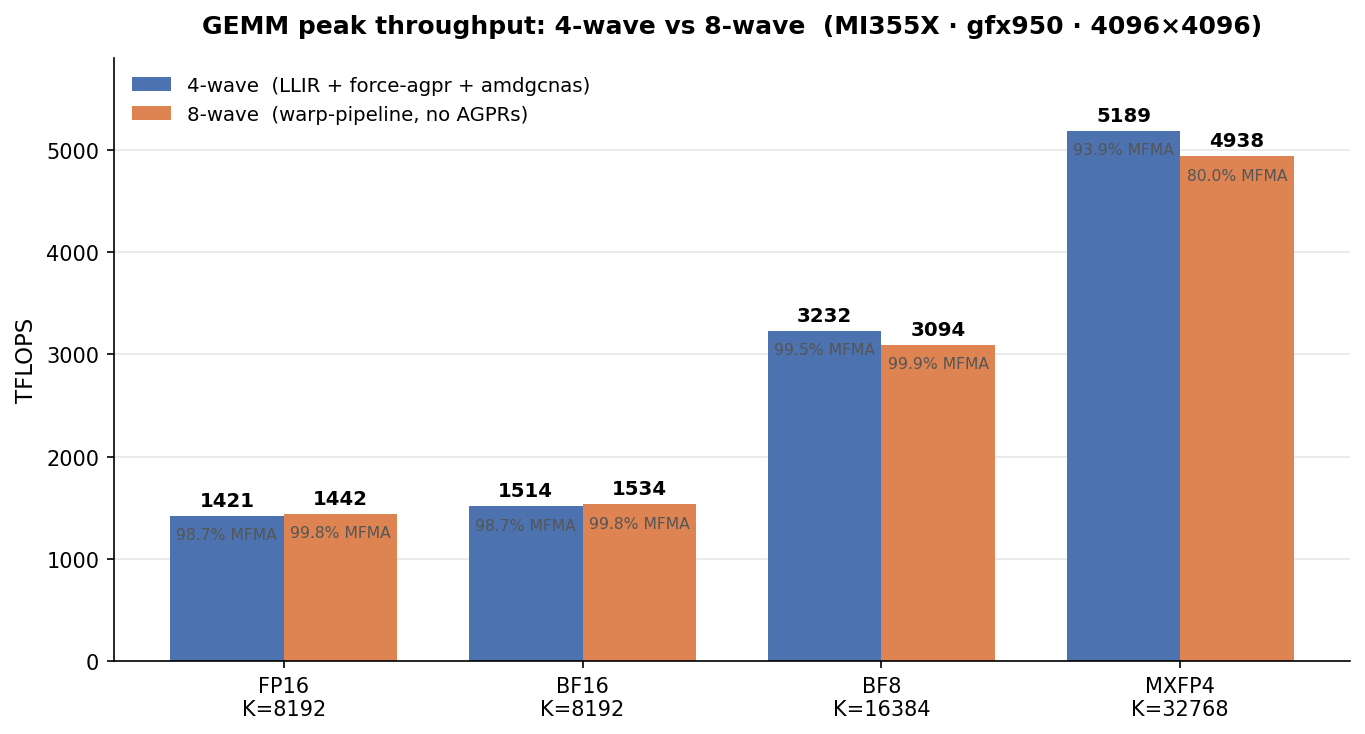
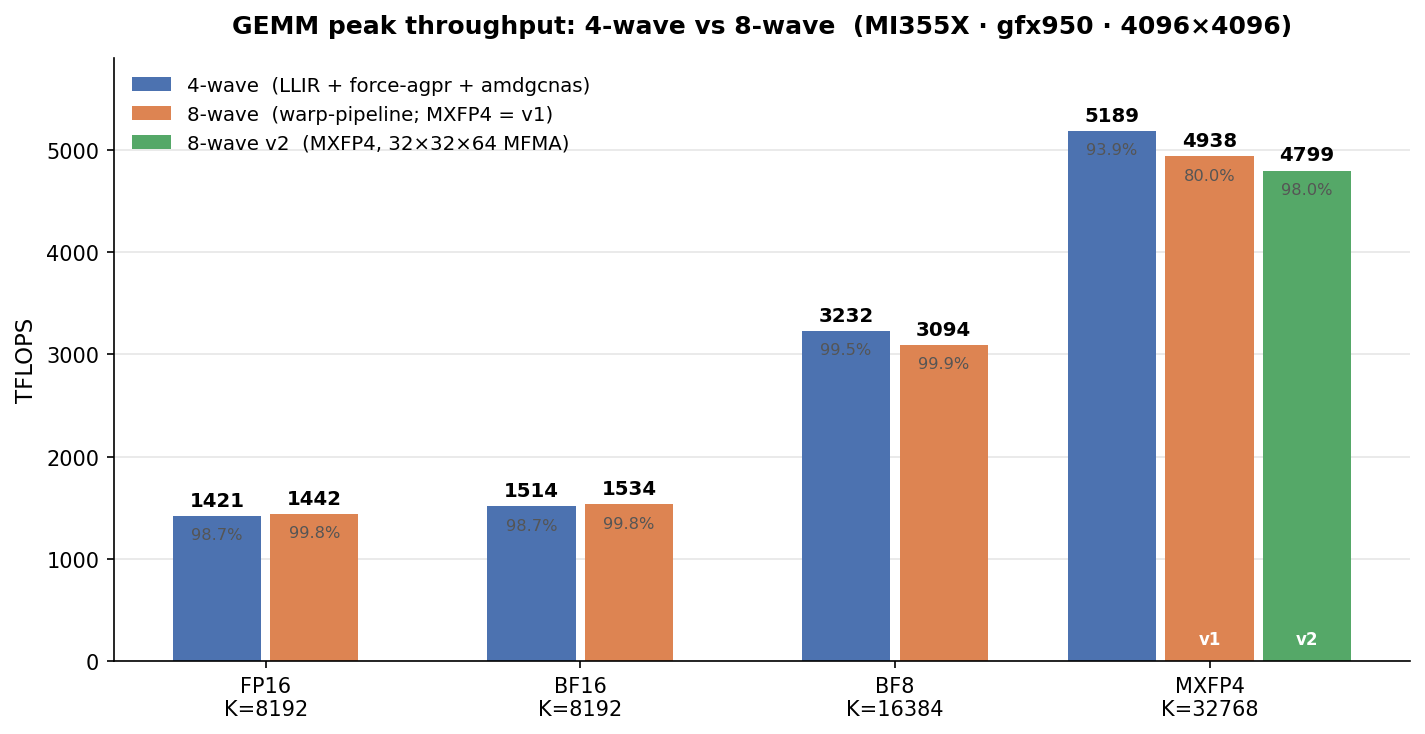
gemm/README: add MXFP4 8-wave v2 to the Performance Summary chart
MXFP4 now shows three bars — 4-wave, 8-wave v1, and 8-wave v2 (32x32x64 MFMA,
green) — so the occupancy-vs-throughput tradeoff (v1 4938/80% vs v2 4799/98%)
is visible. The other precisions keep two bars (single 8-wave kernel). MFMA-eff
labels shortened to just the percentage to declutter the tighter groups.

diff --git a/kernels/gemm/README.md b/kernels/gemm/README.md
@@ -83,7 +83,7 @@ scheduler + force-agpr + amdgcnas (see [`intra_wave/README.md §2.1`](intra_wave
 
 ![GEMM peak throughput: 4-wave vs 8-wave, per precision](images/perf_summary.png)
 
-Bars are peak TFLOPS at each precision's headline shape (FP16/BF16 K=8192, BF8 K=16384, MXFP4 K=32768); the grey label under each value is the per-SIMD loop MFMA efficiency. The 4-wave bars are `intra_wave` (a16w16 v9, a8w8, a4w4 v1); the 8-wave bars are `inter_wave` (a16w16, a8w8, a4w4 v1). MXFP4 8-wave shows **v1** (combined B-scale, 4938 TFLOPS / 80.0% MFMA); the alternate **v2** (32×32×64 MFMA) trades throughput for occupancy at **4799 / 98.0%**.
+Bars are peak TFLOPS at each precision's headline shape (FP16/BF16 K=8192, BF8 K=16384, MXFP4 K=32768); the grey label under each value is the per-SIMD loop MFMA efficiency. The 4-wave bars are `intra_wave` (a16w16 v9, a8w8, a4w4 v1); the 8-wave bars are `inter_wave` (a16w16, a8w8, a4w4). MXFP4 carries both 8-wave variants: **v1** (combined B-scale, the TFLOPS leader at 4938 / 80.0% MFMA) and **v2** (32×32×64 MFMA, green), which trades throughput for occupancy at **4799 / 98.0%**.
 
 > [!NOTE]
 > The **4-wave** bars are the `gfx950-tutorial-v1.0`-build numbers from
